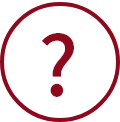
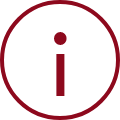
error_finish/mypage_not_yet

diff --git a/project/app/templates/3-borrow/mypage.html b/project/app/templates/3-borrow/mypage.html
@@ -2,10 +2,59 @@
 {% load static %}
 {% block title %} 마이페이지 {% endblock title %}
 {% block css %}
-<link rel="stylesheet" href="{% static '1-startpage/main.css' %}" />
+<link rel="stylesheet" href="{% static '3-borrow/mypage.css' %}" />
 
 {% endblock css %} {% block content %}
 
-<p>mypage</p>
+<div class="wrapper">
+    <div class="page_title_div">
+        <a href="{% url 'main' %}">
+            <img class="arrow_icon" src="{% static 'images/arrow_icon.png' %}" alt="뒤로가기">
+            <span class="page_title">마이 페이지</span>
+        </a>
+    </div>
+
+    <div class="page_contents">
+
+        <!-- 프로필 기본 정보 -->
+        <div class="profile_div">
+            <img class="profile_img" src="{% static 'images/user_profile.png' %}" alt="프로필 아이콘">
+            <div class="profile_info">
+                <p class="user_name">{{ user.profile.name }}</p>
+                <p class="user_major">{{ user.profile.major }}</p>
+            </div>
+        </div>
+
+        <!-- 프로필 디테일 정보 -->
+        <div class="profile_detail_div">
+            <div class="go_borrow_list">
+                <a
+                 href="{% url 'main' %}">
+                    지난 예약 내역
+                    <img class="arrow_icon_2" src="{% static 'images/arrow_icon.png' %}" alt="지난 예약 내역 보러가기">
+                </a>
+            </div>
+            <div class="panelty">
+                <p class="panelty_title">Penalty</p>
+                <p class="panelty_num">{{  user.profile.penalty  }} 점</p>
+            </div>
+
+        </div>
+        <!-- 예약 현황  -->
+
+
+    </div>
+
+
+
+
+
+
+
+
+
+
+
+</div>
 
 {% endblock content %}

diff --git a/project/app/static/3-borrow/mypage.css b/project/app/static/3-borrow/mypage.css
@@ -1,0 +1,91 @@
+
+.wrapper{
+    margin: 30px 18px;
+
+
+}
+
+.page_title_div{
+    display: flex;
+    justify-content: space-between;
+    align-items: center;
+    flex-direction: row;
+}
+a{
+    display: flex;
+    justify-content: space-between;
+    align-items: center;
+    flex-direction: row;
+}
+
+.arrow_icon{
+    transform: rotate(180deg);
+    width: 25px;
+}
+.page_title{
+    font-size: 20px;
+    font-weight: bold;
+    font-stretch: normal;
+    font-style: normal;
+    line-height: 1;
+    letter-spacing: normal;
+    text-align: left;
+    color: #8d091d;
+    margin-left: 5px;
+}
+
+.page_contents{
+    margin: 0 33px;
+}
+.profile_div{
+    display: flex;
+    justify-content: space-around;
+    align-items: center;
+    padding: 28px 0; 
+    border-bottom: solid #4f4f4f 1px;
+}
+.profile_img{
+    width: 58.2px;
+}
+.profile_info{
+    display: flex;
+    flex-direction: column;
+    align-content: flex-start;
+    justify-content: center;
+    margin: 0;
+
+}
+p{
+    margin: 0;
+}
+.user_name{
+    font-size: 20px;
+    font-weight: bold;
+    font-stretch: normal;
+    font-style: normal;
+    line-height: 1.1;
+    letter-spacing: normal;
+    text-align: left;
+    color: #222222;
+}
+.user_major{
+    font-size: 14px;
+    font-weight: 500;
+    font-stretch: normal;
+    font-style: normal;
+    line-height: 1.43;
+    letter-spacing: normal;
+    text-align: left;
+    color: #2a2a2a;
+  
+}
+
+.profile_detail_div{
+    display: flex;
+    justify-content: space-around;
+    align-items: center;
+}
+.arrow_icon_2{
+    width: 25px;
+
+}

diff --git a/project/app/static/error.css b/project/app/static/error.css
@@ -1,0 +1,50 @@
+.flex{
+    display: flex;
+    flex-direction: column;
+    align-content: center;
+    justify-content: center;
+    
+}
+img{
+    width: 93px;
+    margin: 120px auto 0;
+}
+h1{
+    font-size: 28px;
+    font-weight: bolder;
+    font-stretch: normal;
+    font-style: normal;
+    line-height: 1.46;
+    letter-spacing: 1.4px;
+    text-align: center;
+    color: #8d091d;
+    margin: 10px auto 20px;
+
+    
+}
+
+p{
+    font-size: 14px;
+    font-weight: normal;
+    font-stretch: normal;
+    font-style: normal;
+    line-height: 1.6;
+    letter-spacing: normal;
+    text-align: center;
+    color: #4f4f4f;
+    margin: 0;
+
+}
+
+a{
+    font-size: 16px;
+    font-weight: 500;
+    font-stretch: normal;
+    font-style: normal;
+    line-height: 1.25;
+    letter-spacing: normal;
+    text-align: center;
+    color: #8d091d;
+    margin: 100px auto 0;
+    border-bottom: solid #8d091d 1px;
+}

diff --git a/project/app/templates/error.html b/project/app/templates/error.html
@@ -1,0 +1,18 @@
+{% extends 'base.html' %}
+{% load static %}
+{% block title %} 마이페이지 {% endblock title %}
+{% block css %}
+<link rel="stylesheet" href="{% static 'error.css' %}" />
+
+{% endblock css %} {% block content %}
+<div class="flex">
+    <img src="{% static 'images/error_icon.png''%}" alt="error">
+    <h1>Server Error</h1>
+    <p>잘못된 페이지 요청입니다.</p>
+    <!-- <p> 요청하신 페이지 처리 중 오류가 발생했습니다. </p> -->
+    <p> 확인 후 다시 시도해 주시기 바랍니다. </p>
+
+    <a href="{% url 'main' %}">메인으로 돌아가기</a>
+</div>
+
+{% endblock content %}

diff --git a/project/app/static/1-startpage/main.css b/project/app/static/1-startpage/main.css
@@ -43,7 +43,7 @@
   justify-content: space-between;
   align-items: center;
   border-bottom: #4f4f4f solid 1px ;
-  padding-bottom: 10px;
+  padding-bottom: 12px;
   width: 81%;
 }
 .profile_icon{
@@ -90,7 +90,7 @@
 }
 
 .profile_info{
-  margin-top: 10px;
+  margin-top: 15px;
   display: flex;
   justify-content: space-between;
   align-items: center;
@@ -107,8 +107,9 @@
   letter-spacing: normal;
   text-align: left;
   color: #4f4f4f;
-  border-bottom: #4f4f4f solid 1px; 
+  /* border-bottom: #4f4f4f solid 1px;  */
 }
+
 .profile_penalty{
   font-size: 15px;
   font-weight: 500;

diff --git a/project/app/templates/1-startpage/main.html b/project/app/templates/1-startpage/main.html
@@ -31,10 +31,10 @@
                     </div>
 
                     <div class="profile_info">
-                        <span class="profile_penalty"> Penalty {{  user.profile.penalty  }}점</span>
+                        <span class="profile_penalty"> Penalty {{  user.profile.penalty  }}</span>
                     
                         <a class="mypage_button" href="{% url 'mypage' %}">
-                            대여내역 확인하기 >
+                            ✔ 대여내역 확인하기 
                         </a>
                    </div>
 

diff --git a/project/project/urls.py b/project/project/urls.py
@@ -39,6 +39,7 @@ urlpatterns = [
     path('mypage/', views.mypage, name="mypage"),
 
     path('accounts/', include('allauth.urls')),
+    path('error/', views.error, name="error"),
 
     
 ]

diff --git a/project/app/views.py b/project/app/views.py
@@ -290,3 +290,6 @@ def studio_finish(request):
 
 def mypage(request):
     return render(request, '3-borrow/mypage.html')
+
+def error(request):
+    return render(request, 'error.html')
